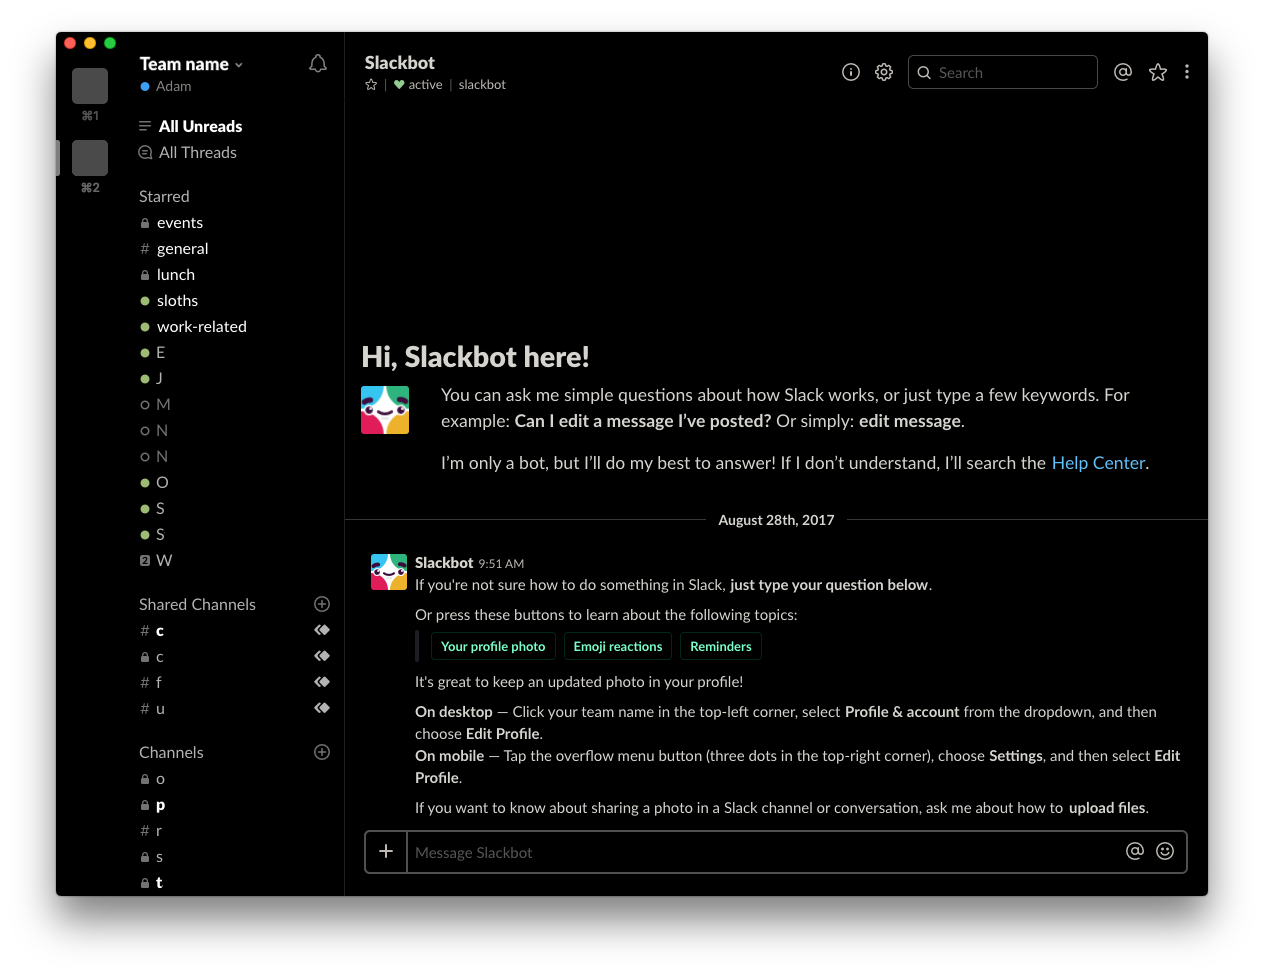
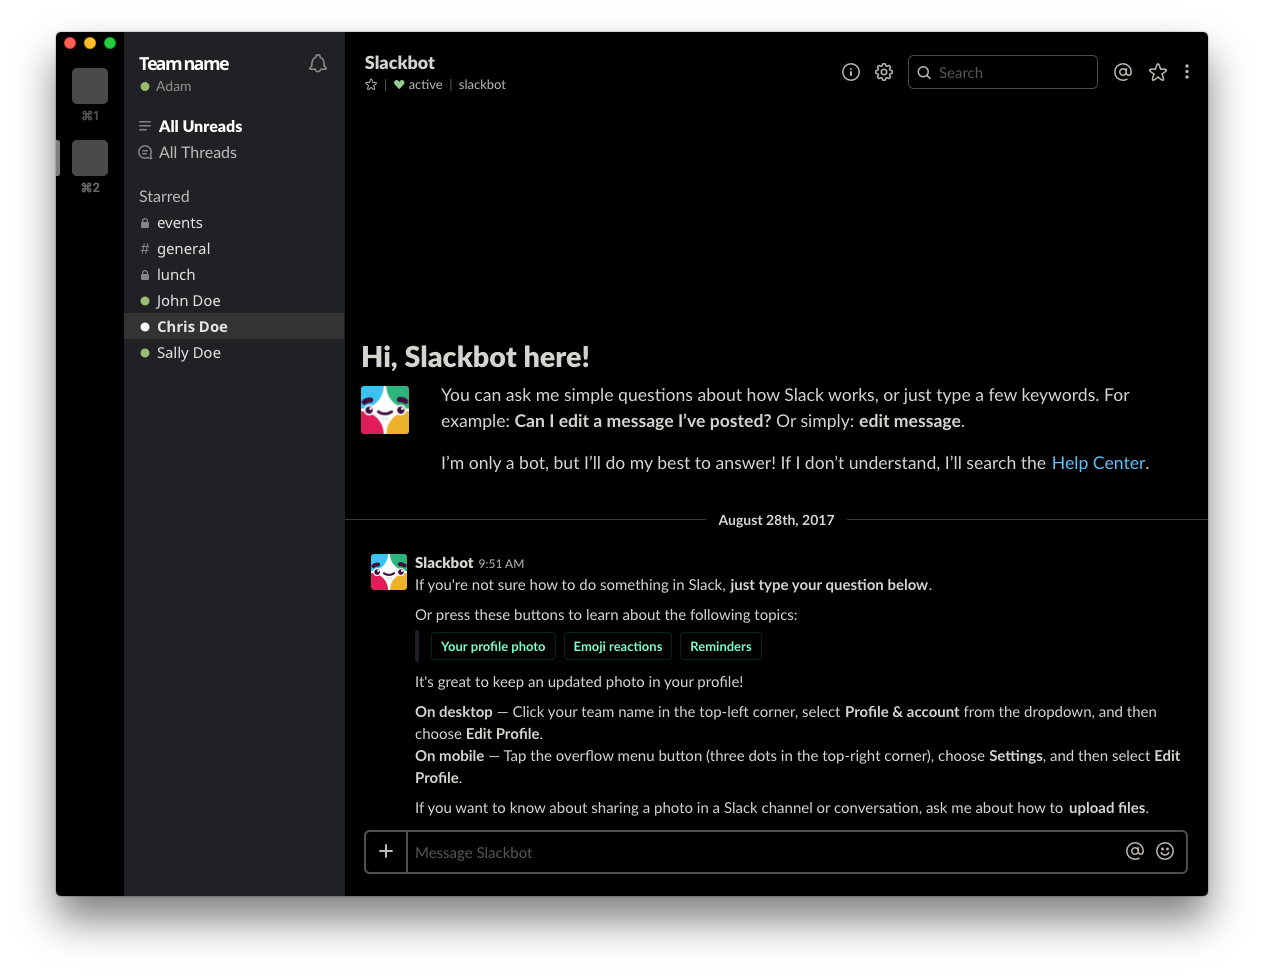
Update screenshot and slack theme to show lighter sidebar.

Changed region(s): [[0.0926, 0.0307, 0.2777, 0.9221]]

diff --git a/README.md b/README.md
@@ -33,7 +33,7 @@ python makeitdark.py
 
 Add this sidebar theme:
 ```
-#000000,#444444,#333333,#FFFFFF,#444444,#FFFFFF,#9cbc73,#cc807c
+#202124,#444444,#333333,#FFFFFF,#444444,#FFFFFF,#9cbc73,#cc807c
 ```
 Or this one for a pure black sidebar:
 ```
